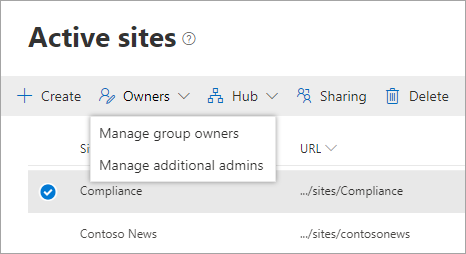
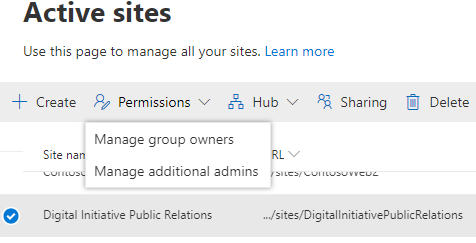
Change tab name Owners to Permissions

diff --git a/SharePoint/SharePointOnline/manage-site-collection-administrators.md b/SharePoint/SharePointOnline/manage-site-collection-administrators.md
@@ -40,6 +40,6 @@ By using the new SharePoint admin center, you can change the owners for sites th
 
 2. In the left column, click to select a site.
   
-3. Select **Owners**. For a group-connected team site, you can add and remove group owners and additional site admins. For other sites, you can add and remove site admins and change the primary admin. Note that if you remove a person as a primary admin, they will still be listed as an additional admin. For info about each role, see [About site permissions](site-permissions.md). 
+3. Select **Permissions**. For a group-connected team site, you can add and remove group owners and additional site admins. For other sites, you can add and remove site admins and change the primary admin. Note that if you remove a person as a primary admin, they will still be listed as an additional admin. For info about each role, see [About site permissions](site-permissions.md). 
 
 ![Changing admins for a team site](media/change-admins.png)
